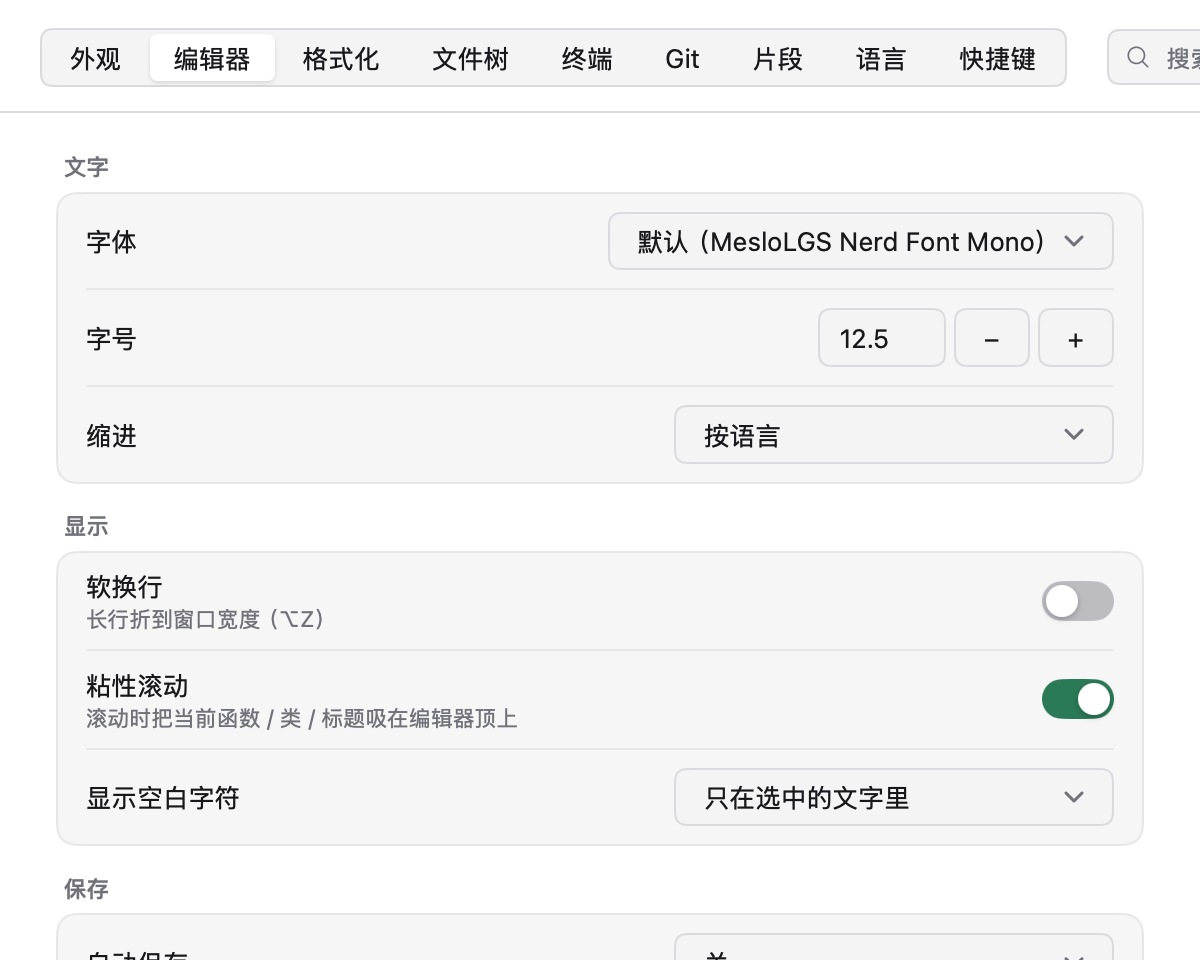
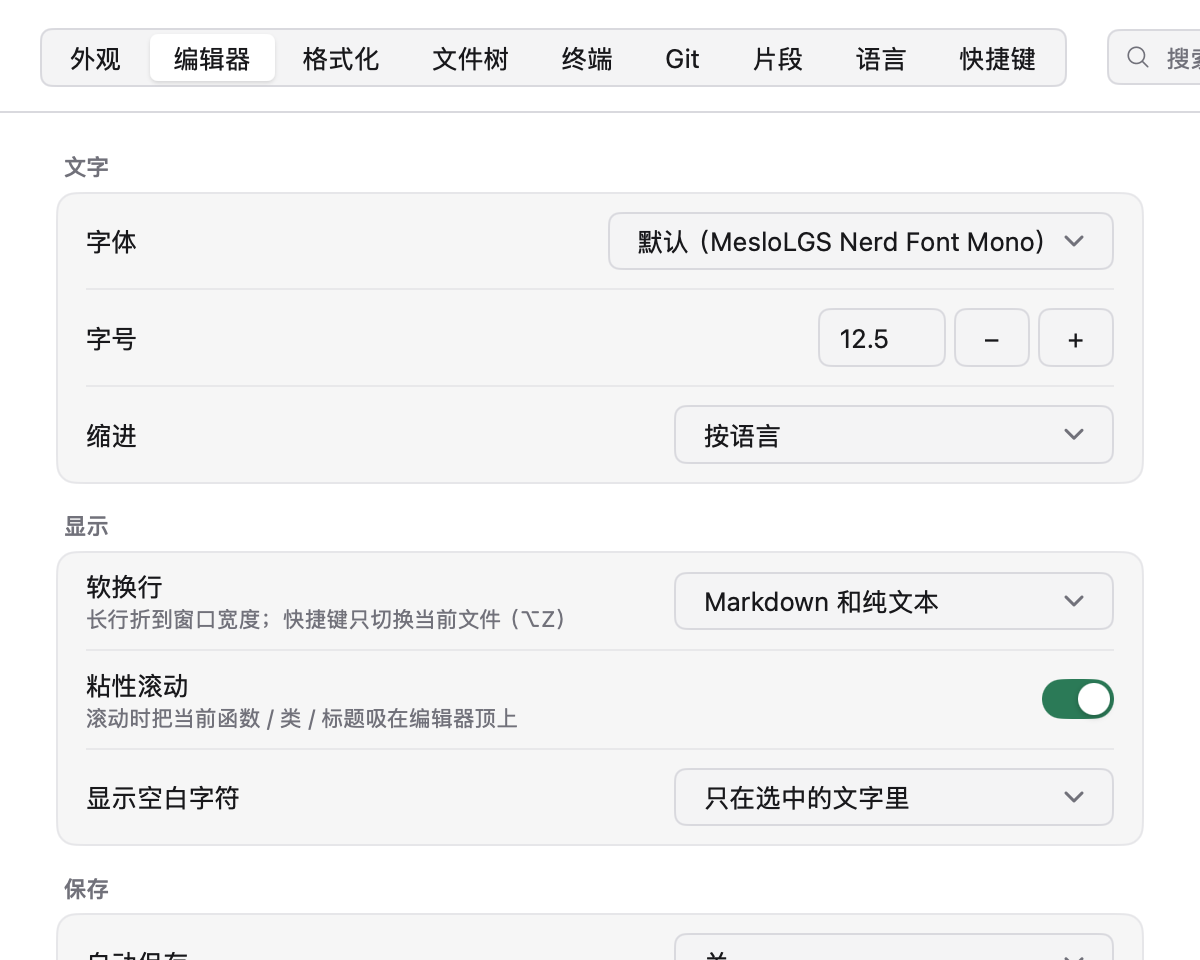
软换行按文件类型：默认只给 Markdown 和纯文本，⌥Z 只切当前标签
设置的 softWrap 开关换成 wrap 三选一："" 文字文件（docs.IsProse：Markdown、
纯文本、.rst/.adoc/.org、README/LICENSE 这些）、"all"、"off"。⌥Z 改 Doc.Wrap，
只这一个标签，切回和设置一样就又跟着设置。老的 softWrap: true（state.json、
导入的文件）读成 "all"。

Changed region(s): [[0.5858, 0.5938, 0.8017, 0.6562], [0.2158, 0.625, 0.4625, 0.6562], [0.8633, 0.5938, 0.925, 0.6562]]

diff --git a/internal/ui/markdown_test.go b/internal/ui/markdown_test.go
@@ -157,23 +157,64 @@ func TestMarkdownPreview(t *testing.T) {
 	}
 }
 
-// 软换行（⌥Z，编辑器有焦点时也能按）和显示空白字符：改了马上套到编辑器上，存进 state.json。
+// 软换行按文件类型：默认只给 Markdown 和纯文本换行；⌥Z（编辑器有焦点时也能按）只换当前标签，设置不动，
+// 切回和设置一样就又跟着设置；设置改成"所有文件""关"，没按过 ⌥Z 的标签跟着变。显示空白字符改了马上套上、存进 state.json。
 func TestEditorDisplayOptions(t *testing.T) {
-	_, ws := testutil.TempRepo(t)
+	root, ws := testutil.TempRepo(t)
+	if err := os.WriteFile(filepath.Join(root, "main.go"), []byte("package main\n"), 0o644); err != nil {
+		t.Fatal(err)
+	}
 	stateDir := t.TempDir()
 	a, tt, wait := newUI(t, ws, stateDir)
 	r := a.Repos[0]
-	a.OpenFile(r, "a.txt", true)
-	a.FocusDoc = true
-	wait("打开 a.txt", func() bool { return tt.Focused("编辑 a.txt") })
-	d := a.CurrentDoc()
+	open := func(name string) *docs.Doc {
+		t.Helper()
+		a.OpenFile(r, name, true)
+		a.FocusDoc = true
+		wait("打开 "+name, func() bool { return tt.Focused("编辑 " + name) })
+		return a.CurrentDoc()
+	}
+	checked := func() bool { return app.Find("view.softWrap").Checked(a) }
+	d := open("a.txt")
 	text := d.Buf.String()
+	if !d.St.SoftWrap || !checked() {
+		t.Fatal("纯文本默认该软换行")
+	}
 
 	tt.Key(wui.Alt, wui.KeyZ)
-	wait("软换行", func() bool { return a.St.Settings.SoftWrap && d.St.SoftWrap })
+	wait("a.txt 关软换行", func() bool { return !d.St.SoftWrap && !checked() })
 	if d.Buf.String() != text {
 		t.Fatal("⌥Z 往文件里打了字")
 	}
+	if a.St.Settings.Wrap != "" {
+		t.Fatalf("⌥Z 改了设置：%q", a.St.Settings.Wrap)
+	}
+
+	g := open("main.go")
+	if g.St.SoftWrap || checked() {
+		t.Fatal("代码文件默认不该软换行")
+	}
+	tt.Key(wui.Alt, wui.KeyZ)
+	wait("main.go 软换行", func() bool { return g.St.SoftWrap && checked() })
+	if d.St.SoftWrap {
+		t.Fatal("⌥Z 连别的标签也换了")
+	}
+
+	// 设置改成都不换：按过 ⌥Z 的照它自己的；main.go 再按一次和设置一样了，又跟着设置
+	a.St.Settings.Wrap = "off"
+	tt.Frame()
+	if !g.St.SoftWrap || d.St.SoftWrap {
+		t.Fatalf("设置关：main.go %v a.txt %v", g.St.SoftWrap, d.St.SoftWrap)
+	}
+	tt.Key(wui.Alt, wui.KeyZ)
+	wait("main.go 关软换行", func() bool { return !g.St.SoftWrap })
+	a.St.Settings.Wrap = "all"
+	tt.Frame()
+	if !g.St.SoftWrap || d.St.SoftWrap {
+		t.Fatalf("设置所有文件：main.go %v（该跟着设置）a.txt %v（按过 ⌥Z 关的）", g.St.SoftWrap, d.St.SoftWrap)
+	}
+
+	d = open("a.txt")
 	a.Exec("view.whitespace")
 	tt.Frame()
 	if d.St.Whitespace != editor.WhitespaceAll {
@@ -183,11 +224,9 @@ func TestEditorDisplayOptions(t *testing.T) {
 	if err != nil {
 		t.Fatal(err)
 	}
-	if !st.Settings.SoftWrap || st.Settings.Whitespace != "all" {
+	if st.Settings.Whitespace != "all" {
 		t.Fatalf("没存：%+v", st.Settings)
 	}
-	tt.Key(wui.Alt, wui.KeyZ)
-	wait("关软换行", func() bool { return !a.St.Settings.SoftWrap && !d.St.SoftWrap })
 
 	// 缩进：纯文本按语言是 4 个空格；设置里改成 8 个空格，状态栏和编辑器马上跟上
 	mustText(t, tt, "空格 4")

diff --git a/internal/workspace/settingsjson_test.go b/internal/workspace/settingsjson_test.go
@@ -30,7 +30,7 @@ func TestSettingsJSON(t *testing.T) {
 		t.Error("零值的 JSON 末尾没换行，或键没照结构体的顺序")
 	}
 
-	s := Settings{Theme: "dark", Zoom: 125, EditorSize: 15, SoftWrap: true, Shell: "/bin/sh", TermSize: 13.5,
+	s := Settings{Theme: "dark", Zoom: 125, EditorSize: 15, Wrap: "all", Shell: "/bin/sh", TermSize: 13.5,
 		TermProfiles: []TermProfile{{Name: "login", Shell: "/bin/sh", Args: []string{"-l"}}},
 		WebHosts:     []WebHost{{Host: "git.example.com", Kind: "gitlab"}},
 		Formatters:   map[string]string{"Go": "gofmt", "Markdown": "-"}}
@@ -41,7 +41,7 @@ func TestSettingsJSON(t *testing.T) {
 	if ch := ChangedKeys(s, back); len(ch) != 0 {
 		t.Fatalf("写出来再解回去变了：%v", ch)
 	}
-	if ch := ChangedKeys(Settings{}, s); !slices.Equal(ch, []string{"theme", "zoom", "editorSize", "softWrap", "shell", "termSize", "termProfiles", "webHosts", "formatters"}) {
+	if ch := ChangedKeys(Settings{}, s); !slices.Equal(ch, []string{"theme", "zoom", "editorSize", "wrap", "shell", "termSize", "termProfiles", "webHosts", "formatters"}) {
 		t.Fatalf("ChangedKeys = %v", ch)
 	}
 	if ch := ChangedKeys(Settings{Formatters: map[string]string{}}, Settings{}); len(ch) != 0 {
@@ -56,7 +56,7 @@ func TestSettingsJSON(t *testing.T) {
 	}{
 		{"{\n  \"theme\": \"dark\",\n  \"colour\": 1\n}\n", "unknown", "colour", 3, 3},
 		{"{\n  \"editorSize\": \"大\"\n}", "type", "editorSize", 2, 17},
-		{"{\"shell\": \"/bin/sh\", \"editorFont\": \"a:b\", \"softWrap\": \"是:否\"}", "type", "softWrap", 1, 55},
+		{"{\"shell\": \"/bin/sh\", \"editorFont\": \"a:b\", \"trimTrailing\": \"是:否\"}", "type", "trimTrailing", 1, 59},
 		{"{\"termProfiles\": [{\"name\": \"x\", \"shel\": \"/bin/sh\"}]}", "unknown", "shel", 1, 33},
 		{"[1, 2]", "notObject", "", 1, 1},
 		{"\n  42", "notObject", "", 2, 3},
@@ -80,6 +80,10 @@ func TestSettingsJSON(t *testing.T) {
 	got, ignored, err := ReadSettingsFile([]byte(exported))
 	if err != nil || got.Theme != "light" || got.Zoom != 150 || got.EditorSize != 0 || !slices.Equal(ignored, []string{"colour", "editorSize"}) {
 		t.Fatalf("读导出的文件：%+v 忽略 %v（%v）", got, ignored, err)
+	}
+	// 老版本导出的 softWrap 开关：开着的成了 wrap "all"，不算忽略
+	if got, ignored, err := ReadSettingsFile([]byte(`{"settings": {"softWrap": true, "zoom": 150}}`)); err != nil || got.Wrap != "all" || len(ignored) != 0 {
+		t.Fatalf("老版本的 softWrap：%+v 忽略 %v（%v）", got, ignored, err)
 	}
 	state, _ := json.Marshal(State{Version: 3, RecentWs: []string{"/x"}, Settings: Settings{PullMode: "rebase", TermDock: "right"}})
 	if got, ignored, err = ReadSettingsFile(state); err != nil || got.PullMode != "rebase" || got.TermDock != "right" || len(ignored) != 0 {

diff --git a/internal/app/markdown.go b/internal/app/markdown.go
@@ -103,11 +103,44 @@ func anchorName(s string) string {
 	return strings.ToLower(s)
 }
 
-// ToggleSoftWrap 开关软换行（⌥Z）。
+// ToggleSoftWrap 开关当前标签的软换行（⌥Z）：只这一个标签，设置里的默认不动；切回和设置一样就又跟着设置。
 func (a *App) ToggleSoftWrap() {
-	a.St.Settings.SoftWrap = !a.St.Settings.SoftWrap
-	a.SaveState()
+	d := a.CurrentDoc()
+	if !canWrap(d) {
+		return
+	}
+	on := !a.WrapOf(d)
+	switch {
+	case on == a.wrapDefault(d):
+		d.Wrap = 0
+	case on:
+		d.Wrap = 1
+	default:
+		d.Wrap = -1
+	}
 }
+
+// WrapOf 是 d 软换不换行：⌥Z 给它定过的按定的，不然按设置（Settings.Wrap）。
+func (a *App) WrapOf(d *docs.Doc) bool {
+	if d.Wrap != 0 {
+		return d.Wrap > 0
+	}
+	return a.wrapDefault(d)
+}
+
+// wrapDefault 是设置里给 d 的软换行：默认只给 Markdown 和纯文本（Doc.Prose），"all" 都换，"off" 都不换。
+func (a *App) wrapDefault(d *docs.Doc) bool {
+	switch a.St.Settings.Wrap {
+	case "all":
+		return true
+	case "off":
+		return false
+	}
+	return d.Prose()
+}
+
+// canWrap 是 ⌥Z 对 d 有没有用：有编辑器的标签（十六进制的不折行）。
+func canWrap(d *docs.Doc) bool { return d != nil && d.Buf != nil && !d.Hex }
 
 // ToggleStickyScroll 开关粘性滚动（view.stickyScroll；设置里存的是反面 noStickyScroll）。
 func (a *App) ToggleStickyScroll() {
@@ -138,13 +171,14 @@ func (a *App) EditorFont() ui.Font {
 	return f
 }
 
-// EditorOptions 把设置里的字体、软换行、空白字符和缩进套到编辑器上（indent 是这个文件状态栏里选的缩进，"" 为跟设置）；
+// EditorOptions 把设置里的字体、软换行（WrapOf）、空白字符和缩进（状态栏里给这个文件选过的优先）套到 d 的编辑器上；
 // 界面每帧画编辑器前调。
-func (a *App) EditorOptions(st *editor.State, indent string) {
+func (a *App) EditorOptions(d *docs.Doc) {
 	s := &a.St.Settings
+	st, indent := &d.St, d.Indent
 	st.Font = a.EditorFont()
 	st.Bindings = EditorBindings() // 改过键的编辑器命令（keybind.go）
-	st.SoftWrap = s.SoftWrap
+	st.SoftWrap = a.WrapOf(d)
 	switch s.Whitespace {
 	case "all":
 		st.Whitespace = editor.WhitespaceAll

diff --git a/internal/workspace/settings.go b/internal/workspace/settings.go
@@ -23,7 +23,7 @@ type Settings struct {
 	EditorFont   string  `json:"editorFont,omitempty"`   // "" 为内置的等宽字体
 	EditorSize   float32 `json:"editorSize,omitempty"`   // 0 为 12.5
 	Indent       string  `json:"indent,omitempty"`       // "" 按语言、"tab"、"2"、"4"、"8"（空格）
-	SoftWrap     bool    `json:"softWrap,omitempty"`     // 软换行（⌥Z）
+	Wrap         string  `json:"wrap,omitempty"`         // 软换行："" 只给 Markdown 和纯文本（docs.IsProse）、"all" 所有文件、"off" 都不；⌥Z 只换当前标签（Doc.Wrap）
 	Whitespace   string  `json:"whitespace,omitempty"`   // 显示空白字符："" 只在选中的文字里、"all"、"trailing"、"none"
 	AutoSave     string  `json:"autoSave,omitempty"`     // "" 不自动保存、"blur"（窗口切走时）、"delay"（停手 1 秒后）
 	TrimTrailing bool    `json:"trimTrailing,omitempty"` // 保存时去掉行尾空白（光标所在的行、Markdown 的两空格硬换行不动）
@@ -168,6 +168,7 @@ var (
 	Materials   = []string{"", "under-window", "popover", "menu", "glass"} // "" 是 sidebar；hud、glass-clear 去掉了（HUD 把侧栏的字洗淡），存过的读回来是空
 	Accents     = accents()
 	Indents     = []string{"", "tab", "2", "4", "8"}
+	Wraps       = []string{"", "all", "off"}
 	Whitespaces = []string{"", "all", "trailing", "none"}
 	AutoSaves   = []string{"", "blur", "delay"}
 	TermThemes  = []string{"", "light", "dark"} // 后面还可以是 Ghostty 的主题名，Clamp 不查
@@ -222,7 +223,7 @@ func (s *Settings) Clamp() {
 		v  *string
 		ok []string
 	}{
-		{&s.Theme, Themes}, {&s.Backdrop, Backdrops}, {&s.Material, Materials}, {&s.Accent, Accents}, {&s.Indent, Indents}, {&s.Whitespace, Whitespaces}, {&s.AutoSave, AutoSaves},
+		{&s.Theme, Themes}, {&s.Backdrop, Backdrops}, {&s.Material, Materials}, {&s.Accent, Accents}, {&s.Indent, Indents}, {&s.Wrap, Wraps}, {&s.Whitespace, Whitespaces}, {&s.AutoSave, AutoSaves},
 		{&s.TermDock, TermDocks}, {&s.PullMode, PullModes}, {&s.Lang, Langs},
 	} {
 		if !contains(f.ok, *f.v) {

diff --git a/internal/ui/settings.go b/internal/ui/settings.go
@@ -26,6 +26,7 @@ var (
 	materialNames   = map[string]string{"": "侧栏", "under-window": "窗口下", "popover": "弹出层", "menu": "菜单", "glass": "玻璃"}
 	accentNames     = withDefault(map[string]string{"system": "跟随系统", "forest": "森绿", "steel": "钢蓝", "ink": "墨蓝", "graphite": "石墨", "teal": "青绿", "indigo": "靛紫"}, workspace.DefaultAccent)
 	indentNames     = map[string]string{"": "按语言", "tab": "Tab", "2": "2 个空格", "4": "4 个空格", "8": "8 个空格"}
+	wrapNames       = map[string]string{"": "Markdown 和纯文本", "all": "所有文件", "off": "关"}
 	whitespaceNames = map[string]string{"": "只在选中的文字里", "all": "全部", "trailing": "只在行尾", "none": "不显示"}
 	autoSaveNames   = map[string]string{"": "关", "blur": "窗口切走时", "delay": "停手 1 秒后"}
 	termThemeNames  = map[string]string{"": "跟随外观", "light": "浅色", "dark": "深色"}
@@ -130,7 +131,9 @@ func SettingsView(a *app.App) func(c *wui.Context) {
 			{1, "字体", "", func(c *wui.Context, l, d string) { choice(c, l, d, &s.EditorFont, mono(), nil, done, fontName) }},
 			{1, "字号", "", func(c *wui.Context, l, d string) { number(c, l, d, &s.EditorSize, 12.5, 9, 32, 0.5, done) }},
 			{1, "缩进", "", func(c *wui.Context, l, d string) { choice(c, l, d, &s.Indent, workspace.Indents, indentNames, done) }},
-			{1, "软换行", "长行折到窗口宽度", func(c *wui.Context, l, d string) { toggle(c, l, app.Tip(d, "view.softWrap"), &s.SoftWrap, done) }},
+			{1, "软换行", "长行折到窗口宽度；快捷键只切换当前文件", func(c *wui.Context, l, d string) {
+				choice(c, l, app.Tip(d, "view.softWrap"), &s.Wrap, workspace.Wraps, wrapNames, done)
+			}},
 			{1, "粘性滚动", "滚动时把当前函数 / 类 / 标题吸在编辑器顶上", func(c *wui.Context, l, d string) {
 				sticky := !s.NoStickyScroll
 				toggle(c, l, d, &sticky, func() {

diff --git a/internal/docs/docs.go b/internal/docs/docs.go
@@ -122,6 +122,8 @@ type Doc struct {
 	Lang string
 	// Indent 是状态栏手动选的这个文件的缩进（IndentAuto 按语言、"tab"、"2"、"4"、"8"），"" 为跟设置；文件标签的记进会话（Tab.Indent）
 	Indent string
+	// Wrap 是 ⌥Z 给这个标签自己定的软换行：0 跟设置（app.WrapOf）、1 换行、-1 不换；各个镜像各管各的，不记进会话
+	Wrap int8
 	// savedEOL 是状态栏换了换行（SetEOL）之前磁盘上那份的换行，"" 为没换过：SetLineEnding 不动内容版本，Modified 看它
 	savedEOL string
 	cursor   cursorInfo // CursorInfo 上次算的
@@ -628,6 +630,35 @@ func (d *Doc) Share(o *Doc) {
 func IsMarkdown(name string) bool {
 	switch strings.ToLower(path.Ext(name)) {
 	case ".md", ".markdown", ".mdown", ".mkd":
+		return true
+	}
+	return false
+}
+
+// IsProse 是不是一段段的文字（Markdown、纯文本、reStructuredText、AsciiDoc、Org，还有没后缀的 README、LICENSE 这些）：
+// 一段话常常就是很长的一行，设置里软换行的默认就是只给它们换行。
+func IsProse(name string) bool {
+	if IsMarkdown(name) {
+		return true
+	}
+	switch strings.ToLower(path.Ext(name)) {
+	case ".txt", ".text", ".rst", ".adoc", ".asciidoc", ".org":
+		return true
+	case "":
+		switch strings.ToUpper(name) {
+		case "README", "LICENSE", "LICENCE", "COPYING", "NOTICE", "AUTHORS", "CONTRIBUTORS", "CHANGELOG", "CHANGES", "TODO":
+			return true
+		}
+	}
+	return false
+}
+
+// Prose 是 d 算不算文字文件（IsProse）：状态栏手动选了语言的按选的，纯文本和 Markdown 算。
+func (d *Doc) Prose() bool {
+	switch d.Lang {
+	case "":
+		return IsProse(d.Name())
+	case PlainLang, "Markdown":
 		return true
 	}
 	return false

diff --git a/internal/workspace/workspace_test.go b/internal/workspace/workspace_test.go
@@ -257,6 +257,25 @@ func TestStateSessions(t *testing.T) {
 		}
 	}
 
+	// 老版本的 softWrap 开关（所有文件一起）：开着的读成 wrap "all"，没开、没写的照新的默认（只给文字文件换行）；
+	// 已经写了 wrap 的照 wrap
+	for data, want := range map[string]string{
+		`{"version":4,"settings":{"softWrap":true}}`:              "all",
+		`{"version":4,"settings":{"softWrap":false}}`:             "",
+		`{"version":4,"settings":{}}`:                             "",
+		`{"version":4,"settings":{"softWrap":true,"wrap":"off"}}`: "off",
+	} {
+		if err := os.WriteFile(filepath.Join(dir, StateFile), []byte(data), 0o644); err != nil {
+			t.Fatal(err)
+		}
+		if st, err = LoadState(dir); err != nil {
+			t.Fatal(err)
+		}
+		if st.Settings.Wrap != want {
+			t.Errorf("%s 读成 wrap=%q", data, st.Settings.Wrap)
+		}
+	}
+
 	bad := `{"version":3,"sessions":{"/w/x.code-workspace":{"tabs":[{"path":"rel.go"},{"path":"/ok.go","line":-1},{"path":"/ok.go","line":2}],"active":7},"/w/nil.code-workspace":null}}`
 	if err := os.WriteFile(filepath.Join(dir, StateFile), []byte(bad), 0o644); err != nil {
 		t.Fatal(err)

diff --git a/internal/workspace/state.go b/internal/workspace/state.go
@@ -351,6 +351,7 @@ func LoadState(dir string) (State, error) {
 			dropFoldedStash(&st)
 		}
 		legacyTreeColors(data, &st)
+		legacySoftWrap(data, &st)
 		legacySearches(data, &st)
 	} else {
 		// 原型时期的文件：只认仓库列表、diff 设置和侧栏宽度，面板按规则迁移。
@@ -378,6 +379,19 @@ func legacyTreeColors(data []byte, st *State) {
 	}
 	if json.Unmarshal(data, &v) == nil && v.Settings.TreeStatusColors != nil && !*v.Settings.TreeStatusColors {
 		st.Settings.TreeNoStatusColors = true
+	}
+}
+
+// legacySoftWrap 认老版本的 softWrap（开关，默认关、所有文件一起）：开着的成了 wrap "all"，没开的照新的默认
+// （只给 Markdown 和纯文本换行）。
+func legacySoftWrap(data []byte, st *State) {
+	var v struct {
+		Settings struct {
+			SoftWrap bool `json:"softWrap"`
+		} `json:"settings"`
+	}
+	if json.Unmarshal(data, &v) == nil && v.Settings.SoftWrap && st.Settings.Wrap == "" {
+		st.Settings.Wrap = "all"
 	}
 }
 

diff --git a/internal/docs/docs_test.go b/internal/docs/docs_test.go
@@ -236,3 +236,27 @@ func TestModifiedCache(t *testing.T) {
 		t.Error("换了缓冲区还用旧结果")
 	}
 }
+
+// 软换行默认只给文字文件：Markdown、纯文本这些按后缀，没后缀的认几个常见的名字；状态栏手动选了语言的按选的。
+func TestProse(t *testing.T) {
+	for name, want := range map[string]bool{
+		"README.md": true, "notes.TXT": true, "guide.rst": true, "book.adoc": true, "todo.org": true,
+		"LICENSE": true, "readme": true, "CHANGELOG": true,
+		"main.go": false, "Makefile": false, "Dockerfile": false, "a.json": false, "x.md.go": false,
+	} {
+		if got := IsProse(name); got != want {
+			t.Errorf("IsProse(%q) = %v", name, got)
+		}
+	}
+	d := &Doc{Rel: "main.go"}
+	if d.Prose() {
+		t.Error("main.go 不是文字文件")
+	}
+	if d.Lang = PlainLang; !d.Prose() {
+		t.Error("手动选了纯文本该算文字文件")
+	}
+	d.Rel, d.Lang = "notes.txt", "Go"
+	if d.Prose() {
+		t.Error("手动选了 Go 不该算文字文件")
+	}
+}

diff --git a/internal/app/settingsfile.go b/internal/app/settingsfile.go
@@ -293,7 +293,7 @@ func (a *App) ResetSettings() {
 var settingLabels = map[string]string{
 	"theme": "外观", "backdrop": "窗口底", "material": "材质", "accent": "强调色", "solidSelection": "选中行用淡底", "zoom": "界面缩放",
 	"noDiagrams": "Markdown 预览里渲染 Mermaid 图和公式",
-	"editorFont": "编辑器字体", "editorSize": "编辑器字号", "indent": "缩进", "softWrap": "软换行", "whitespace": "显示空白字符",
+	"editorFont": "编辑器字体", "editorSize": "编辑器字号", "indent": "缩进", "wrap": "软换行", "whitespace": "显示空白字符",
 	"autoSave": "自动保存", "trimTrailing": "保存时去掉行尾空白", "finalNewline": "保存时补上末尾换行", "noStickyScroll": "粘性滚动",
 	"noLocalHistory": "本地历史", "historyDays": "本地历史保留",
 	"showIgnored": "显示被忽略的文件", "treeNoFollow": "文件树跟随当前文件", "treeNoCompact": "合并只有一个子目录的目录",

diff --git a/internal/app/commands.go b/internal/app/commands.go
@@ -246,7 +246,8 @@ func buildCommands() []*Command {
 			Run: func(a *App) { a.StepFile(-1) }},
 		{ID: "diff.compareWithSel", Title: "比较当前文件与已选项目", Group: "视图", Enabled: (*App).CanCompareCurrent, Run: (*App).CompareCurrentWithSel},
 		{ID: "view.softWrap", Title: "软换行", Group: "视图", Sep: true, Mods: alt, Key: ui.KeyZ,
-			Checked: func(a *App) bool { return a.St.Settings.SoftWrap }, Run: (*App).ToggleSoftWrap},
+			Enabled: func(a *App) bool { return canWrap(a.CurrentDoc()) },
+			Checked: func(a *App) bool { d := a.CurrentDoc(); return canWrap(d) && a.WrapOf(d) }, Run: (*App).ToggleSoftWrap},
 		{ID: "view.whitespace", Title: "显示空白字符", Group: "视图",
 			Checked: func(a *App) bool { return a.St.Settings.Whitespace == "all" }, Run: (*App).ToggleWhitespace},
 		{ID: "view.stickyScroll", Title: "粘性滚动", Group: "视图",

diff --git a/internal/ui/settings_test.go b/internal/ui/settings_test.go
@@ -109,13 +109,16 @@ func TestSettingsWindow(t *testing.T) {
 		t.Fatalf("换回默认应存成空：%q %v", a.St.Settings.Accent, a.St.Settings.SolidSelection)
 	}
 
-	// 编辑器：缩进按语言（Go 用 Tab）→ 2 个空格；软换行
+	// 编辑器：缩进按语言（Go 用 Tab）→ 2 个空格；软换行默认只给文字文件，换成所有文件后 Go 也换行
 	if !tt.HasText("Tab 4") {
 		t.Fatalf("Go 文件按语言应是 Tab 4：%q", tt.Texts())
 	}
 	mustClick(t, st, "编辑器")
 	pick("按语言", "2 个空格")
-	mustClick(t, st, "软换行")
+	if d.St.SoftWrap {
+		t.Fatal("Go 文件默认不该软换行")
+	}
+	pick("Markdown 和纯文本", "所有文件")
 	tt.Frame()
 	if !tt.HasText("空格 2") || d.St.TabSize != 2 || !d.St.SoftWrap {
 		t.Fatalf("编辑器没跟上：TabSize=%d SoftWrap=%v", d.St.TabSize, d.St.SoftWrap)
